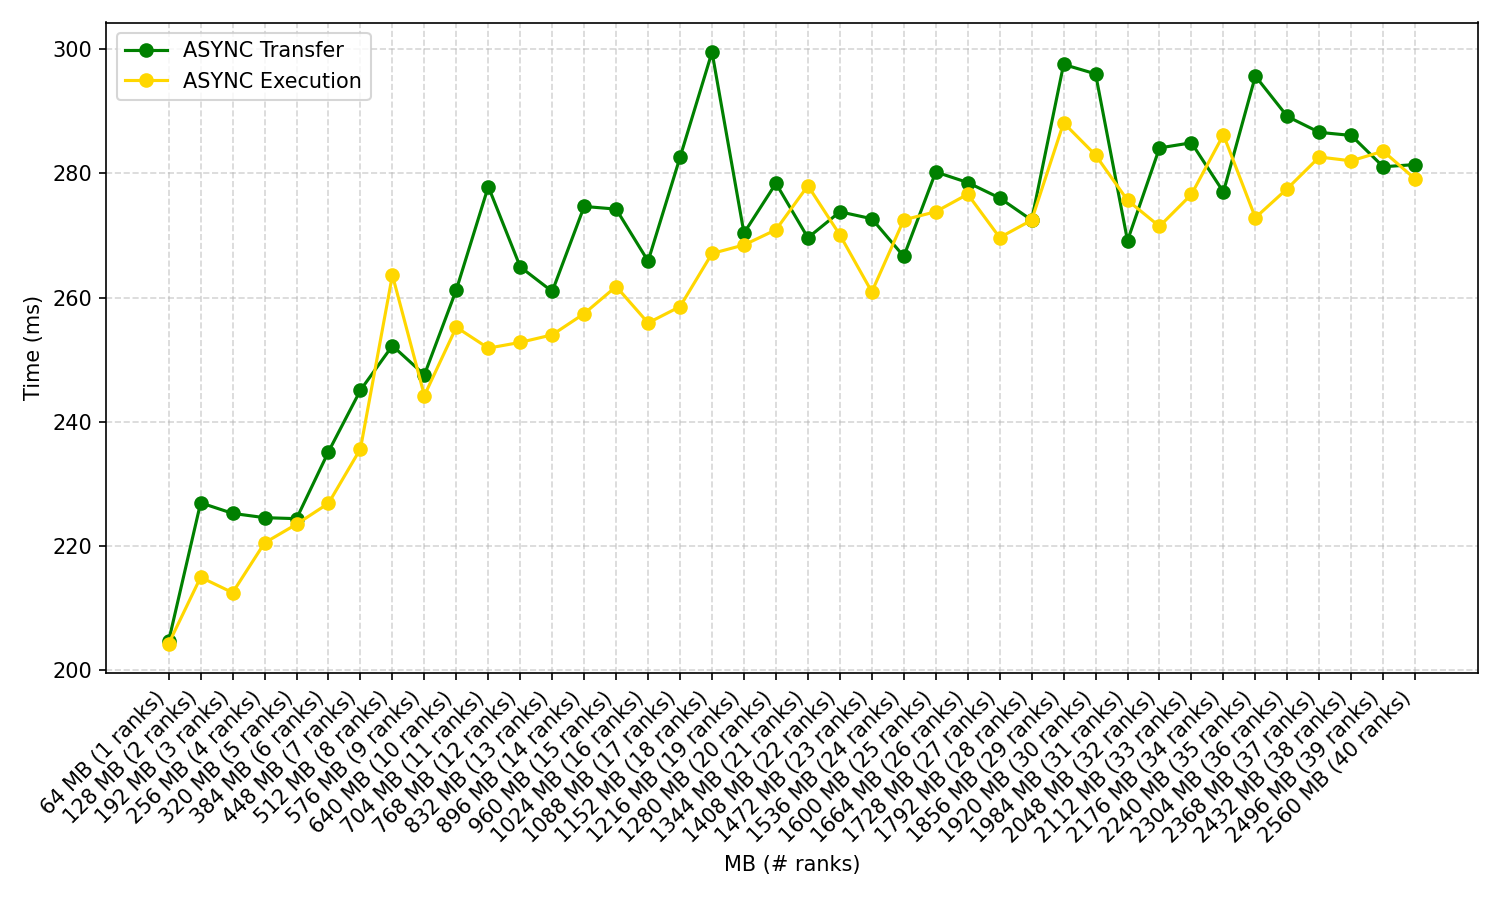
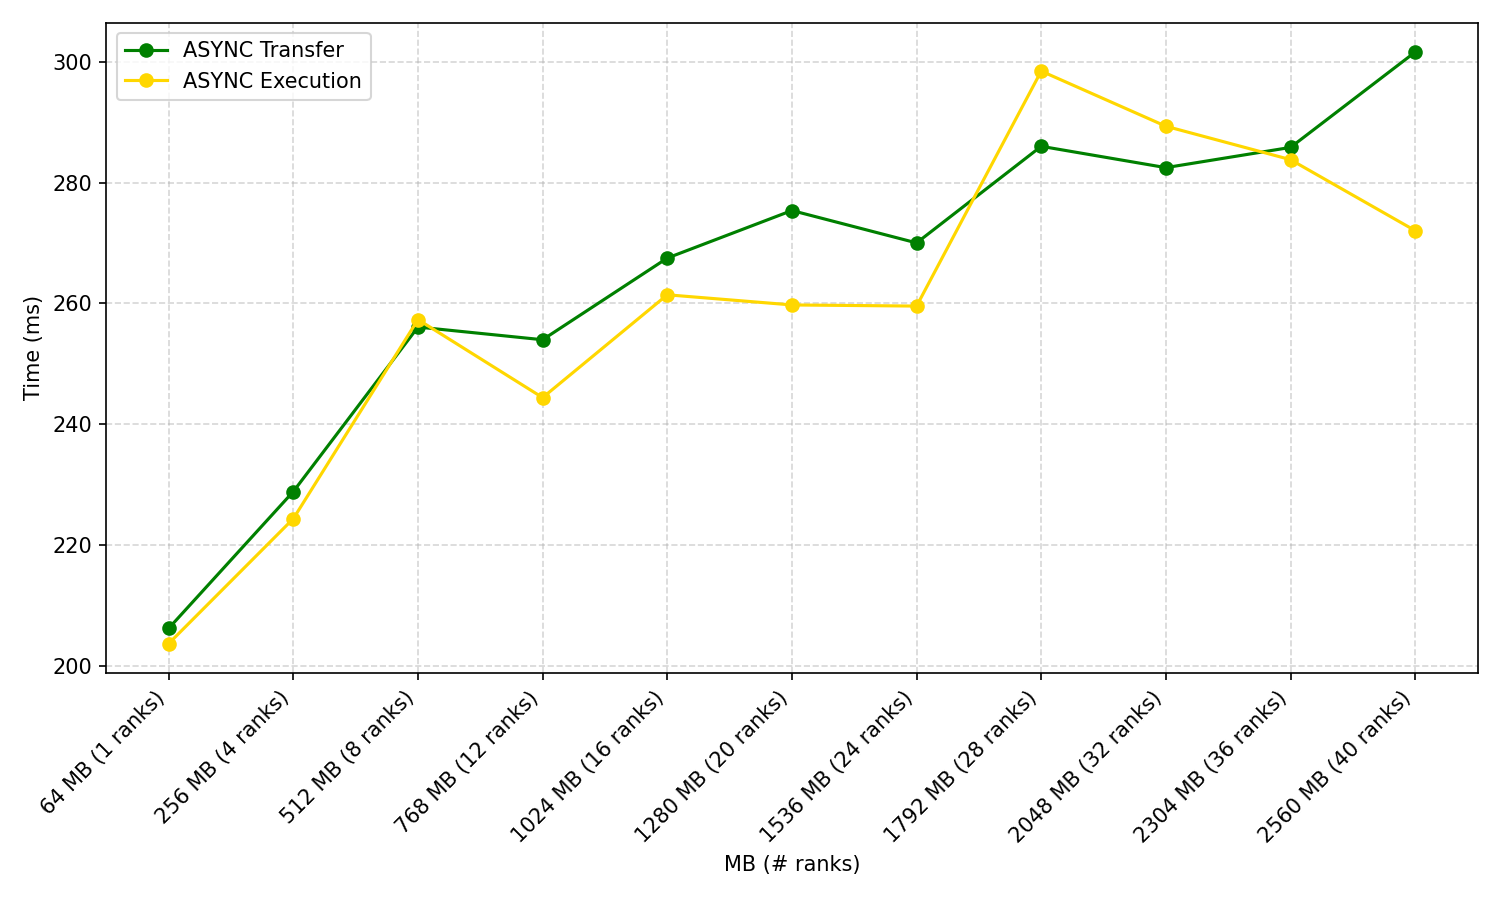
Readme Fixes

diff --git a/plot_ranks_scaling_SHA.py b/plot_ranks_scaling_SHA.py
@@ -1,0 +1,102 @@
+import csv
+import matplotlib.pyplot as plt
+import argparse
+
+CSV_PATH = "rank_scaling_sha256.csv"
+OUT_PATH = "rank_scaling.png"
+OUT_PATH_NO_SHA = "rank_scaling_no_SHAhost.png"
+
+FILTER_RANKS = [1, 4, 8, 12, 16, 20, 24, 28, 32, 36, 40]
+
+SERIES = [
+    ("timeUPMEM_asyncTrans", "ASYNC Transfer", "green"),
+    ("timeUPMEM_asyncExec", "ASYNC Execution", "gold"),
+    ("timeSHAHost", "SHA Host", "blue"),
+]
+
+
+# CSV Reader
+def read_csv(path):
+    n_ranks, data_size = [], []
+    series_values = {key: [] for key, _, _ in SERIES}
+    with open(path, newline="") as f:
+        reader = csv.DictReader(f)
+        reader.fieldnames = [name.strip() for name in reader.fieldnames]
+        for row in reader:
+            row = {k.strip(): v.strip() for k, v in row.items()}
+            n_ranks.append(int(row["nRanks"]))
+            data_size.append(float(row["dataSize"]))
+            for key in series_values:
+                series_values[key].append(float(row[key]))
+    return n_ranks, data_size, series_values
+
+
+def filter_by_ranks(n_ranks, data_size, series_values, allowed_ranks):
+    keys = list(series_values.keys())
+    filtered = [
+        (nr, ds, *[series_values[k][i] for k in keys])
+        for i, (nr, ds) in enumerate(zip(n_ranks, data_size))
+        if nr in allowed_ranks
+    ]
+    if not filtered:
+        return [], [], {k: [] for k in keys}
+    unzipped = list(zip(*filtered))
+    n_ranks_f, data_size_f = list(unzipped[0]), list(unzipped[1])
+    series_values_f = {k: list(unzipped[2 + idx]) for idx, k in enumerate(keys)}
+    return n_ranks_f, data_size_f, series_values_f
+
+
+def make_plot(labels, series_values_s, series_list, out_path):
+    x = range(len(labels))
+    plt.figure(figsize=(10, 6))
+    for key, label, color in series_list:
+        if out_path == OUT_PATH_NO_SHA:
+            plt.plot(x, [v * 1000 for v in series_values_s[key]], marker="o", color=color, label=label)
+        else:
+            plt.plot(x, series_values_s[key], marker="o", color=color, label=label)
+    plt.xticks(list(x), labels, rotation=45, ha="right")
+    if out_path == OUT_PATH_NO_SHA:
+        plt.ylabel("Time (ms)")
+    else:
+        plt.ylabel("Time (s)")
+    plt.xlabel("MB (# ranks)")
+    plt.legend()
+    plt.grid(True, linestyle="--", alpha=0.5)
+    plt.tight_layout()
+    plt.savefig(out_path, dpi=150)
+    plt.close()
+
+
+def parse_args():
+    parser = argparse.ArgumentParser(
+        description="Generate scaling plots from rank_scaling_sha256.csv."
+    )
+    parser.add_argument(
+        "--filter-by-ranks",
+        action="store_true",
+        help="Plot only the ranks specified in FILTER_RANKS."
+    )
+    return parser.parse_args()
+
+
+def main():
+    args = parse_args()
+    n_ranks, data_size, series_values = read_csv(CSV_PATH)
+    if args.filter_by_ranks:
+        n_ranks, data_size, series_values = filter_by_ranks(
+            n_ranks,
+            data_size,
+            series_values,
+            FILTER_RANKS,
+        )
+    series_values_s = {
+        key: [v / 1000 for v in values] for key, values in series_values.items()
+    }
+    labels = [f"{int(ds)} MB ({nr} ranks)" for ds, nr in zip(data_size, n_ranks)]
+    make_plot(labels, series_values_s, SERIES, OUT_PATH)
+    series_no_sha = [s for s in SERIES if s[0] != "timeSHAHost"]
+    make_plot(labels, series_values_s, series_no_sha, OUT_PATH_NO_SHA)
+
+
+if __name__ == "__main__":
+    main()
